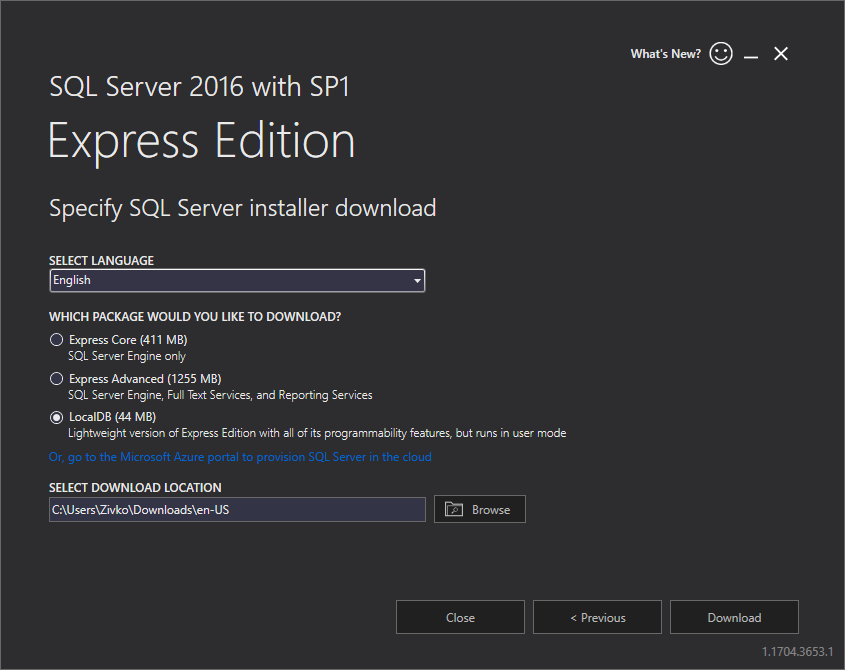
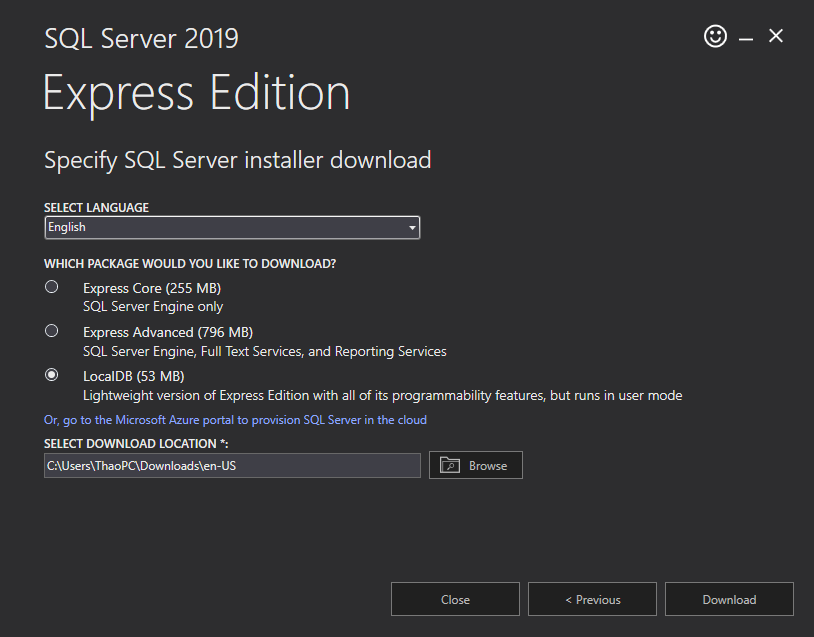
change sqllocal download version

diff --git a/README.md b/README.md
@@ -50,7 +50,7 @@ SqlLocalDB start  MSSQLLocalDB
 
 
 3 .Copy 2 file database FaxConfigDB.mdf and FaxConfigDB.ldf from Database folder  to other place then change connection string in SendFaxApp.dll.config
-![open visual studio](images/b6_changeAdobeReader.png)
+![open visual studio](images/b31_changeAppConfig.png)
 
 
 4 .Change connection string 
